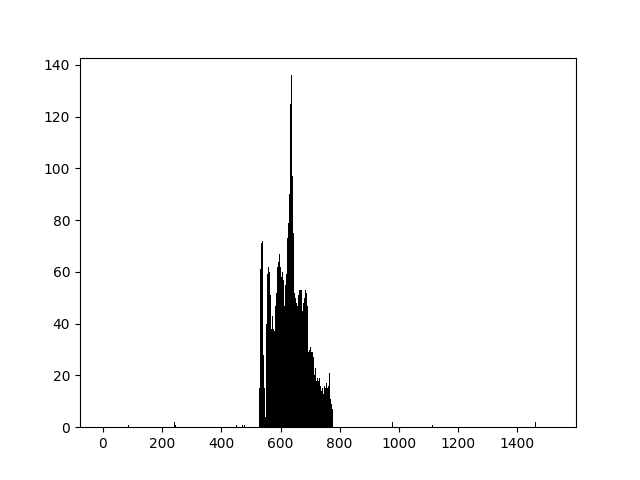
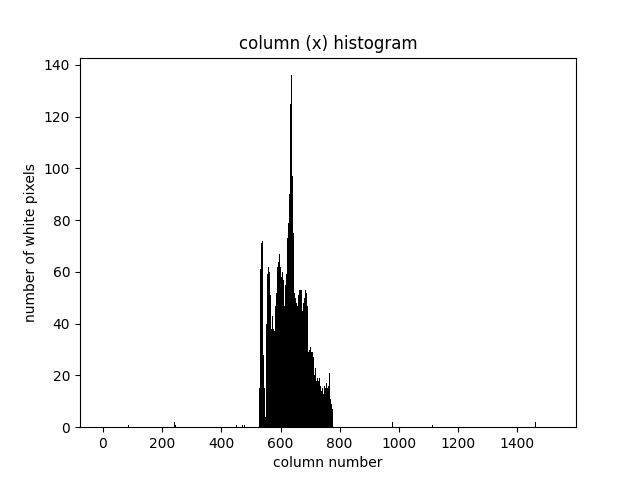
resized images

Changed region(s): [[0.375, 0.0625, 0.6562, 0.125], [0.0312, 0.3438, 0.0625, 0.6875], [0.4375, 0.9375, 0.5938, 1.0]]

diff --git a/Preprocess/segment_detector.py b/Preprocess/segment_detector.py
@@ -19,10 +19,13 @@ def create_histogram(filepath):
                 x_hist[j] = x_hist[j] + 1
                 y_hist[i] = y_hist[i] + 1
 
-    # x = np.arange(0, len(x_hist))
-    # plt.bar(x, x_hist, width = 3, color='black')
-    # plt.savefig('x_hist.png')
-    # plt.show()
+    x = np.arange(0, len(y_hist))
+    plt.bar(x, y_hist, width = 3, color='black')
+    plt.title("row (y) histogram")
+    plt.ylabel("number of white pixels")
+    plt.xlabel("row number")
+    plt.savefig('y_hist.png')
+    plt.show()
     
     return (x_hist, y_hist, image)
 
@@ -208,8 +211,8 @@ def create_rect(x_hist, y_hist, image):
 
 def main():
     x_hist, y_hist, image = create_histogram("thresh_img.jpg")
-    x_hist, y_hist, image = trim_img(x_hist, y_hist, image, 5, 50)
-    create_rect(x_hist, y_hist, image)
+    #x_hist, y_hist, image = trim_img(x_hist, y_hist, image, 5, 50)
+    #create_rect(x_hist, y_hist, image)
 
 #process("../test_model/hello1.jpg")
 main()

diff --git a/README.md b/README.md
@@ -15,16 +15,16 @@ The Hiragana and Kanji data had 160 writers each writer writing each character o
 This application can be broken up into 4 main parts. Preprocessing, segmentation, prediction, and then parsing. 
 For preprocessing, I first take in the image given by the user and first make it grayscale because we don't care about color pixels in this case of character recognition. Next I invert the image because the model is trained using images that are white characters set on a black background. Next, I thresh the images to make all pixels in the image be either completely black or completely white. Finally, I crop the image to get rid of extra space that is not needed. 
 
-![Grayscale Example](./Images/gray_img.jpg)
-![Invert Example](./Images/invert_img.jpg)
-![Thresh Example](./Images/thresh_img.jpg)
-![Crop Example](./Images/crop_img.jpg)
+![Grayscale Example](./Images/gray_resize.jpg)
+![Invert Example](./Images/invert_resize.jpg)
+![Thresh Example](./Images/thresh_resize.jpg)
+![Crop Example](./Images/crop_reisze.jpg)
 
 The second step is segmentation. The program makes a histogram of all the white pixels in each column and row. This way, for each character there will be a high amount of white pixels and when there is no character or a space then there will be no/few white pixels. By tracking the spaces in these histograms we can create proper bounding boxes for the characters. After creating proper bounding boxes, parse each individual detected image out of the full image and crop any extra space.
 
-![x histogram](./Images/x_hist.png)
-![y historgam](./Images/y_hist.png)
-![bounding boxes](./Images/bounding_boxes.jpg)
+![x histogram](./Images/x_hist_resize.png)
+![y historgam](./Images/y_hist_resize.png)
+![bounding boxes](./Images/bounding_resize.jpg)
 
 # Ichiran Open Source Application
 https://github.com/tshatrov/ichiran
